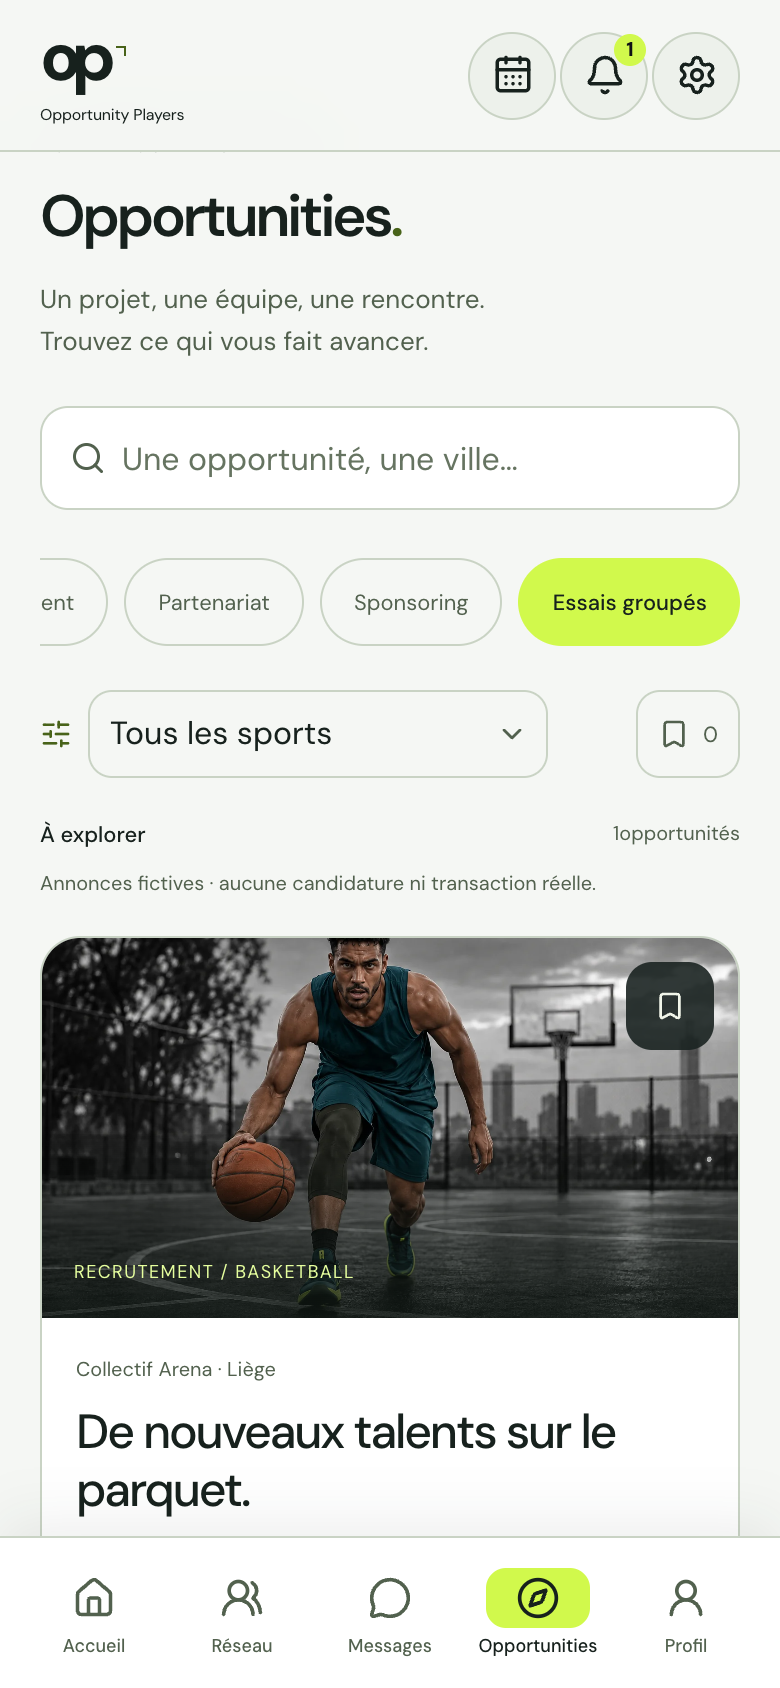
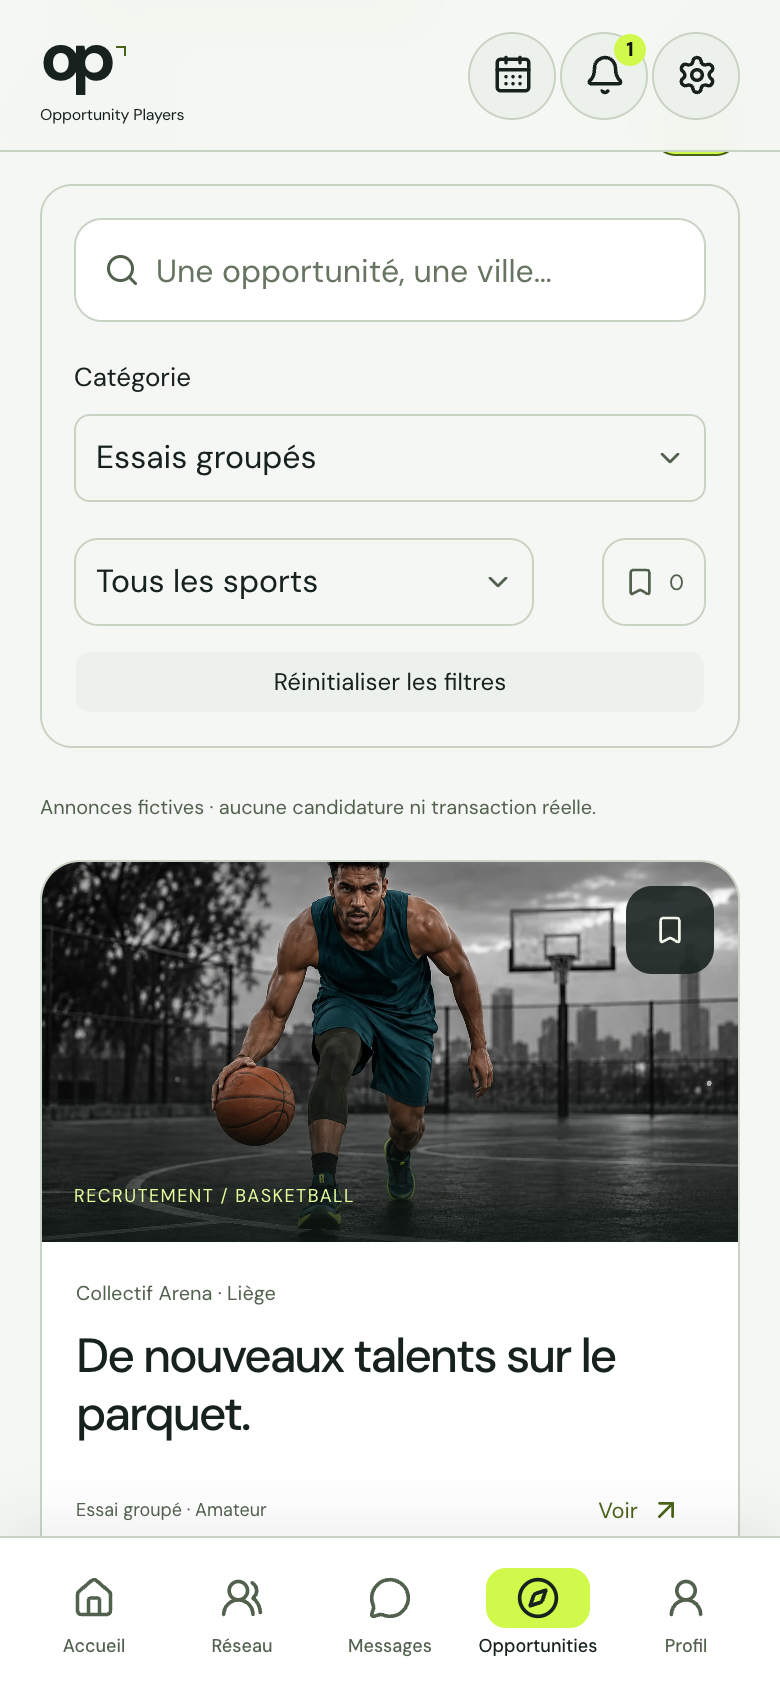
Actualiser la page Application et ses visuels

diff --git a/app/application/page.tsx b/app/application/page.tsx
@@ -34,6 +34,7 @@ const features = [
     text: 'L’accueil se concentre sur les publications de votre communauté. Lisez les trois premières lignes, puis ouvrez le post complet. Partagez du texte avec une photo ou une vidéo importée depuis votre appareil ; choisissez une discipline ou « - » pour un sujet transversal.',
     tools: [
       'Premium : matchs ouverts, emplois, opportunités, news et divers',
+      'Filtres Premium par catégorie, discipline et mots-clés',
       'Aimer et commenter',
       'Importer une photo ou une vidéo avec aperçu',
       'Programmer une publication avec Premium',
@@ -63,13 +64,13 @@ const features = [
     id: 'reseau',
     name: 'Réseau',
     location: 'Réseau › Les membres',
-    capture: 'Compte gratuit · aperçu des filtres Premium',
+    capture: 'Compte gratuit · filtres avancés ouverts',
     route: 'reseau',
     icon: UsersRound,
     title: 'Les bonnes personnes. Le même terrain.',
-    text: 'Trois espaces clairs : Les membres, Jouer ensemble et Agenda. Recherchez un nom, un rôle, un club ou une ville. Suivre affiche les publications d’un membre ; Connect lui envoie une demande qu’il doit accepter pour ouvrir les échanges sans quota et les invitations à vos matchs.',
+    text: 'Trois espaces clairs : Les membres, Jouer ensemble et Agenda. Recherchez un nom, un rôle, un club ou une ville, puis affinez par type de profil, secteur ou métier, localisation et discipline. Suivre affiche les publications d’un membre ; Connect lui envoie une demande qu’il doit accepter pour ouvrir les échanges sans quota et les invitations à vos matchs.',
     tools: [
-      'Recherche simple et filtres Premium : pays, ville, sport, classement',
+      'Recherche simple et filtres Premium : profil, secteur, pays, ville, sport, classement',
       'Invitations reçues : deux visibles, liste dépliable',
       'Suivre ou envoyer une demande Connect',
       'Jouer ensemble : Mes invitations, J’organise, À proximité',
@@ -124,15 +125,15 @@ const features = [
   {
     id: 'opportunities',
     name: 'Opportunités',
-    location: 'Opportunities · annonces et essais groupés',
-    capture: 'Catégorie Essais groupés sélectionnée parmi les six filtres',
+    location: 'Opportunities · annonces et filtres',
+    capture: 'Filtres ouverts · catégorie Essais groupés',
     route: 'opportunities',
     icon: Compass,
     title: 'Votre prochain chapitre se trouve ici.',
-    text: 'La page présente uniquement les catégories Toutes, Coaching, Recrutement, Partenariat, Sponsoring et Essais groupés, puis les annonces. Le suivi des candidatures et les outils du recruteur prolongent ces démarches : ce ne sont pas des catégories supplémentaires dans la barre de filtres.',
+    text: 'Explorez les annonces par mots-clés, catégorie, discipline ou favoris. Le catalogue couvre les besoins communs ainsi que des domaines spécialisés comme la santé, l’arbitrage, le juridique, les médias, les équipes et les universités. Les professionnels et les collectifs peuvent aussi publier une annonce selon les droits et le quota de leur formule.',
     tools: [
-      'Six catégories, dont Essais groupés, et filtre Sport',
-      'Ouvrir une annonce et l’enregistrer en favori',
+      'Recherche, treize catégories, filtre Sport et favoris',
+      'Ouvrir, enregistrer ou publier une annonce selon votre profil',
       'Candidater puis suivre la réponse selon votre offre',
       'Côté recruteur : présélectionner et proposer un essai',
       'Essai confirmé retrouvé dans l’agenda',
@@ -140,10 +141,10 @@ const features = [
     benefits: [
       'Repérez une recherche de joueur ou un essai, partagez votre dossier puis suivez l’avancement de votre candidature.',
       'Trouvez une mission de coaching ou une collaboration. Les outils de recrutement dépendent de votre formule.',
-      'Présentez un besoin de recrutement et traitez les dossiers reçus ; explorez aussi partenariats et sponsoring.',
+      'Publiez un besoin, traitez les dossiers reçus et explorez recrutement, partenariats, sponsoring ou essais groupés.',
     ],
     limit:
-      'Les accès aux candidatures, offres et essais dépendent de la catégorie de profil et de l’abonnement. Un collectif gratuit dispose d’une offre active ; les offres professionnelles sont Premium. Aucun dossier ni candidature n’est envoyé réellement dans la démo.',
+      'Les sportifs ne publient pas d’annonce. Un professionnel peut gérer jusqu’à 5 offres actives avec Premium ; un collectif dispose de 1 offre en gratuit et de 10 avec Premium. Les candidatures, essais et quotas dépendent aussi de la formule. Aucun dossier, annonce ni candidature n’est transmis réellement dans la démo.',
   },
   {
     id: 'agenda',
